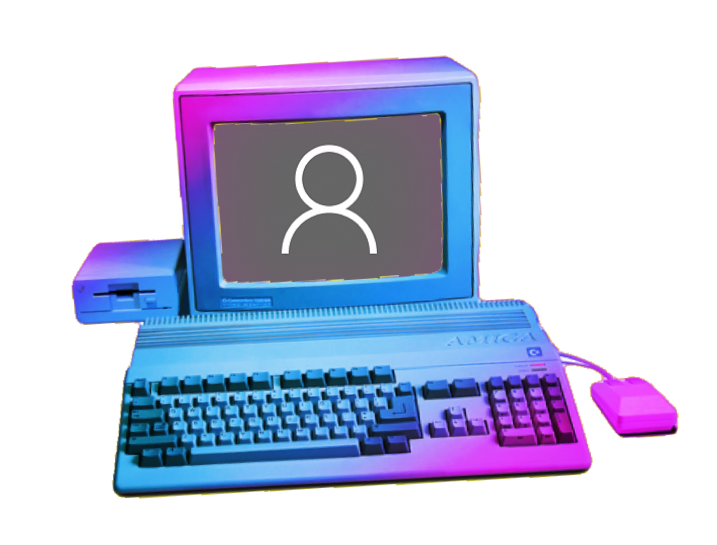
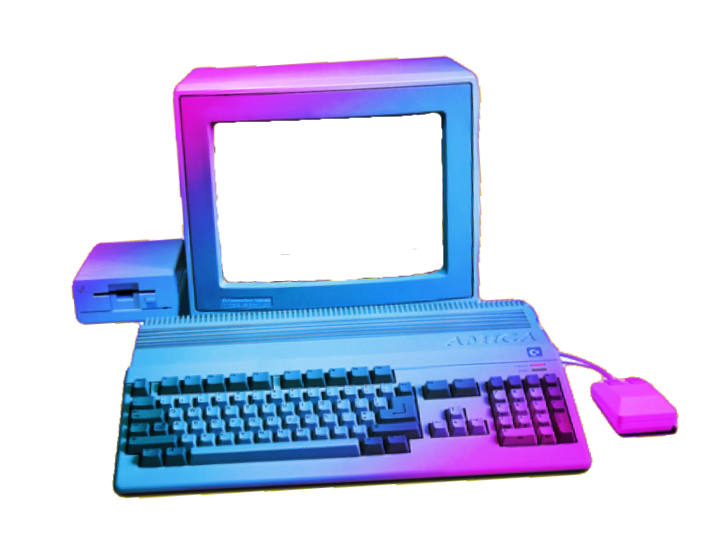
Change image pc with transparant screen

Changed region(s): [[0.2762, 0.1872, 0.6444, 0.5303]]

diff --git a/Trollkit/Windows/SystemInfo.xaml b/Trollkit/Windows/SystemInfo.xaml
@@ -7,52 +7,53 @@
     xmlns:d="http://schemas.microsoft.com/expression/blend/2008"
 	xmlns:resources="clr-namespace:Trollkit.Resources"
     mc:Ignorable="d" Height="395" Width="623">
-	<UserControl.Resources>
-		<resources:ProfilePictureImageConverter x:Key="ImageConverter"/>
-	</UserControl.Resources>
-	<Canvas Margin="10,0,10,10">
-		<Rectangle HorizontalAlignment="Left" Height="310" VerticalAlignment="Top" Width="510" Canvas.Top="10">
-			<Rectangle.Fill>
-				<ImageBrush ImageSource="..\Resources\Images\System_Info_background.png"></ImageBrush>
-			</Rectangle.Fill>
-		</Rectangle>
-		<Image Source="..\Resources\Images\System_Info_PC.png" Canvas.Top="203" Width="191" Height="175" RenderTransformOrigin="0.5,0.5" Canvas.Left="411">
-			<Image.RenderTransform>
-				<TransformGroup>
-					<ScaleTransform ScaleX="-1"/>
-					<SkewTransform/>
-					<RotateTransform/>
-					<TranslateTransform/>
-				</TransformGroup>
-			</Image.RenderTransform>
-		</Image>
-		<Image Source="{Binding Path=SelectedClient.storedData[ProfilePicture], Converter={StaticResource ImageConverter}}" Width="68" Height="48" Canvas.Left="480" Canvas.Top="247" RenderTransformOrigin="0.5,0.5">
-			<Image.RenderTransform>
-				<TransformGroup>
-					<ScaleTransform/>
-					<SkewTransform/>
-					<RotateTransform Angle="3.339"/>
-					<TranslateTransform/>
-				</TransformGroup>
-			</Image.RenderTransform>
-		</Image>
+    <UserControl.Resources>
+        <resources:ProfilePictureImageConverter x:Key="ImageConverter"/>
+    </UserControl.Resources>
+    <Canvas Margin="10,0,10,10">
+        <Rectangle HorizontalAlignment="Left" Height="310" VerticalAlignment="Top" Width="510" Canvas.Top="10">
+            <Rectangle.Fill>
+                <ImageBrush ImageSource="..\Resources\Images\System_Info_background.png"></ImageBrush>
+            </Rectangle.Fill>
+        </Rectangle>
+        <Image Source="{Binding Path=SelectedClient.storedData[ProfilePicture], Converter={StaticResource ImageConverter}}" Width="63" Height="48" Canvas.Left="481" Canvas.Top="246" RenderTransformOrigin="0.5,0.5">
+            <Image.RenderTransform>
+                <TransformGroup>
+                    <ScaleTransform/>
+                    <SkewTransform/>
+                    <RotateTransform Angle="3.339"/>
+                    <TranslateTransform/>
+                </TransformGroup>
+            </Image.RenderTransform>
+        </Image>
+        <Image Source="..\Resources\Images\System_Info_PC.png" Canvas.Top="203" Width="191" Height="175" RenderTransformOrigin="0.5,0.5" Canvas.Left="411">
+            <Image.RenderTransform>
+                <TransformGroup>
+                    <ScaleTransform ScaleX="-1"/>
+                    <SkewTransform/>
+                    <RotateTransform/>
+                    <TranslateTransform/>
+                </TransformGroup>
+            </Image.RenderTransform>
+        </Image>
+        
 
 
 
-		<StackPanel Height="284" Canvas.Left="21" Canvas.Top="26" Width="445">
-			<Label Content="> Client info" Canvas.Left="21" Canvas.Top="27" Foreground="#FF52FF00" Height="38" FontSize="20" FontWeight="Bold"/>
-			<Label Content="{Binding Path=SelectedClient.storedData[ComputerName]}" Canvas.Left="21" Canvas.Top="64" Foreground="#FF52FF00" Height="32" FontSize="18" FontFamily="Segoe UI Semilight"/>
-			<StackPanel Height="97" Canvas.Left="61" Canvas.Top="96" Margin="50,0,13,0">
-				<Label Content="{Binding Path=SelectedClient.storedData[Drives]}" Foreground="#FF52FF00" Height="27" FontSize="16" FontFamily="Segoe UI Semilight"/>
-				<Label Content="{Binding Path=SelectedClient.storedData[CPU]}" Foreground="#FF52FF00" Height="32" Width="419" FontSize="16" FontFamily="Segoe UI Semilight"/>
-				<Label Content="{Binding Path=SelectedClient.storedData[WindowsVersion]}" Foreground="#FF52FF00" Height="32" Width="419" FontSize="16" FontFamily="Segoe UI Semilight"/>
-			</StackPanel>
-			<Label Content="&gt; Network" Canvas.Left="21" Canvas.Top="192" Foreground="#FF52FF00" Height="33" FontSize="18" FontFamily="Segoe UI Semilight"/>
-			<StackPanel Height="67" Canvas.Left="61" Canvas.Top="229" Margin="50,0,13,0">
-				<Label Content="{Binding Path=SelectedClient.IpAddress}" Canvas.Left="61" Canvas.Top="219" Foreground="#FF52FF00" Height="32" FontSize="16" FontFamily="Segoe UI Semilight" Margin="0,0,10,0"/>
-				<Label Content="255.255.255.0" Canvas.Left="61" Canvas.Top="251" Foreground="#FF52FF00" Height="32" FontSize="16" FontFamily="Segoe UI Semilight" HorizontalAlignment="Left" Width="409"/>
-			</StackPanel>
-		</StackPanel>
+        <StackPanel Height="284" Canvas.Left="21" Canvas.Top="26" Width="445">
+            <Label Content="> Client info" Canvas.Left="21" Canvas.Top="27" Foreground="#FF52FF00" Height="38" FontSize="20" FontWeight="Bold"/>
+            <Label Content="{Binding Path=SelectedClient.storedData[ComputerName]}" Canvas.Left="21" Canvas.Top="64" Foreground="#FF52FF00" Height="32" FontSize="18" FontFamily="Segoe UI Semilight"/>
+            <StackPanel Height="97" Canvas.Left="61" Canvas.Top="96" Margin="50,0,13,0">
+                <Label Content="{Binding Path=SelectedClient.storedData[Drives]}" Foreground="#FF52FF00" Height="27" FontSize="16" FontFamily="Segoe UI Semilight"/>
+                <Label Content="{Binding Path=SelectedClient.storedData[CPU]}" Foreground="#FF52FF00" Height="32" Width="419" FontSize="16" FontFamily="Segoe UI Semilight"/>
+                <Label Content="{Binding Path=SelectedClient.storedData[WindowsVersion]}" Foreground="#FF52FF00" Height="32" Width="419" FontSize="16" FontFamily="Segoe UI Semilight"/>
+            </StackPanel>
+            <Label Content="&gt; Network" Canvas.Left="21" Canvas.Top="192" Foreground="#FF52FF00" Height="33" FontSize="18" FontFamily="Segoe UI Semilight"/>
+            <StackPanel Height="67" Canvas.Left="61" Canvas.Top="229" Margin="50,0,13,0">
+                <Label Content="{Binding Path=SelectedClient.IpAddress}" Canvas.Left="61" Canvas.Top="219" Foreground="#FF52FF00" Height="32" FontSize="16" FontFamily="Segoe UI Semilight" Margin="0,0,10,0"/>
+                <Label Content="255.255.255.0" Canvas.Left="61" Canvas.Top="251" Foreground="#FF52FF00" Height="32" FontSize="16" FontFamily="Segoe UI Semilight" HorizontalAlignment="Left" Width="409"/>
+            </StackPanel>
+        </StackPanel>
 
-	</Canvas>
+    </Canvas>
 </UserControl>
